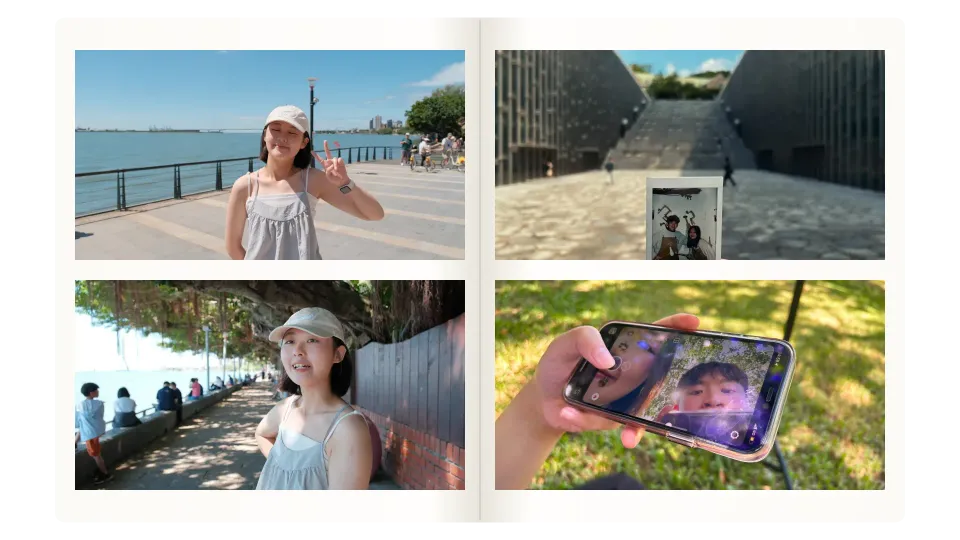
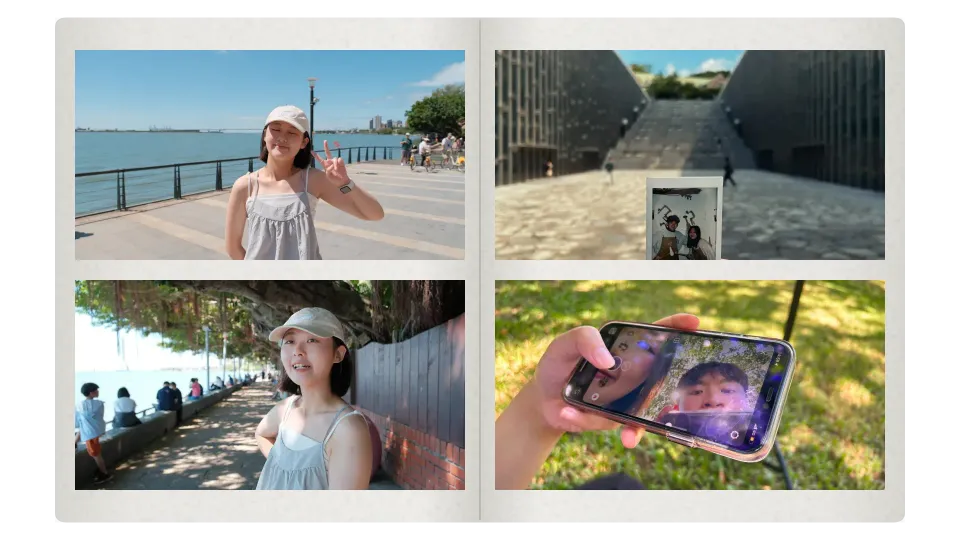
feat: polish UI

diff --git a/scripts/generate-photo-book-assets.ts b/scripts/generate-photo-book-assets.ts
@@ -54,25 +54,49 @@ const paper = Buffer.from(`
 	<svg width="${PHOTO_BOOK_WIDTH}" height="${PHOTO_BOOK_HEIGHT}" viewBox="0 0 ${PHOTO_BOOK_WIDTH} ${PHOTO_BOOK_HEIGHT}" xmlns="http://www.w3.org/2000/svg">
 		<defs>
 			<linearGradient id="left-paper" x1="0" x2="1">
-				<stop offset="0" stop-color="#fbfaf6"/>
-				<stop offset="0.88" stop-color="#fffefb"/>
-				<stop offset="1" stop-color="#e7e3da"/>
+				<stop offset="0" stop-color="#d9d7d1"/>
+				<stop offset="0.18" stop-color="#ebeae5"/>
+				<stop offset="0.86" stop-color="#f1f0ec"/>
+				<stop offset="1" stop-color="#d4d2cc"/>
 			</linearGradient>
 			<linearGradient id="right-paper" x1="0" x2="1">
-				<stop offset="0" stop-color="#e7e3da"/>
-				<stop offset="0.12" stop-color="#fffefb"/>
-				<stop offset="1" stop-color="#fbfaf6"/>
+				<stop offset="0" stop-color="#d4d2cc"/>
+				<stop offset="0.14" stop-color="#f1f0ec"/>
+				<stop offset="0.82" stop-color="#ebeae5"/>
+				<stop offset="1" stop-color="#d9d7d1"/>
 			</linearGradient>
+			<filter id="paper-grain" x="0" y="0" width="100%" height="100%">
+				<feTurbulence type="fractalNoise" baseFrequency="0.09" numOctaves="4" seed="17"/>
+				<feColorMatrix type="saturate" values="0"/>
+				<feComponentTransfer><feFuncA type="linear" slope="0.3"/></feComponentTransfer>
+			</filter>
 		</defs>
 		<path d="M110 55 Q110 35 135 35 H960 V1045 H135 Q110 1045 110 1025 Z" fill="url(#left-paper)"/>
 		<path d="M960 35 H1785 Q1810 35 1810 55 V1025 Q1810 1045 1785 1045 H960 Z" fill="url(#right-paper)"/>
-		<path d="M960 40 V1040" stroke="#c9c3b8" stroke-width="3" opacity="0.72"/>
+		<path d="M110 55 Q110 35 135 35 H960 V1045 H135 Q110 1045 110 1025 Z" filter="url(#paper-grain)" opacity="0.62"/>
+		<path d="M960 35 H1785 Q1810 35 1810 55 V1025 Q1810 1045 1785 1045 H960 Z" filter="url(#paper-grain)" opacity="0.62"/>
+		<path d="M960 40 V1040" stroke="#aaa8a2" stroke-width="4" opacity="0.58"/>
 	</svg>
 `);
 
 const flatPaper = Buffer.from(`
 	<svg width="${PHOTO_BOOK_WIDTH}" height="${PHOTO_BOOK_HEIGHT}" viewBox="0 0 ${PHOTO_BOOK_WIDTH} ${PHOTO_BOOK_HEIGHT}" xmlns="http://www.w3.org/2000/svg">
-		<rect x="110" y="35" width="1700" height="1010" rx="25" fill="#fffefb"/>
+		<defs>
+			<linearGradient id="flat-paper" x1="0" x2="1">
+				<stop offset="0" stop-color="#d9d7d1"/>
+				<stop offset="0.18" stop-color="#ebeae5"/>
+				<stop offset="0.5" stop-color="#f1f0ec"/>
+				<stop offset="0.82" stop-color="#ebeae5"/>
+				<stop offset="1" stop-color="#d9d7d1"/>
+			</linearGradient>
+			<filter id="flat-grain" x="0" y="0" width="100%" height="100%">
+				<feTurbulence type="fractalNoise" baseFrequency="0.09" numOctaves="4" seed="17"/>
+				<feColorMatrix type="saturate" values="0"/>
+				<feComponentTransfer><feFuncA type="linear" slope="0.3"/></feComponentTransfer>
+			</filter>
+		</defs>
+		<rect x="110" y="35" width="1700" height="1010" rx="25" fill="url(#flat-paper)"/>
+		<rect x="110" y="35" width="1700" height="1010" rx="25" filter="url(#flat-grain)" opacity="0.62"/>
 	</svg>
 `);
 
@@ -88,7 +112,8 @@ async function renderSpread(template: PhotoBookTemplate, sources: string[]) {
 					.resize(slots[index].width, slots[index].height, {
 						fit: slots[index].fit ?? 'cover',
 						position: 'centre',
-						background: { r: 255, g: 254, b: 251, alpha: 1 }
+						// Transparent padding lets the generated paper texture show around contained photos.
+						background: { r: 0, g: 0, b: 0, alpha: 0 }
 					})
 					.webp({ quality: 84 })
 					.toBuffer(),
@@ -106,7 +131,10 @@ async function renderSpread(template: PhotoBookTemplate, sources: string[]) {
 			background: { r: 0, g: 0, b: 0, alpha: 0 }
 		}
 	})
-		.composite([{ input: template === 'final-portrait' ? flatPaper : paper, left: 0, top: 0 }, ...photos])
+		.composite([
+			{ input: template === 'final-portrait' ? flatPaper : paper, left: 0, top: 0 },
+			...photos
+		])
 		.webp({ quality: 82, alphaQuality: 90 })
 		.toBuffer();
 }

diff --git a/src/lib/components/PhotoBook.svelte b/src/lib/components/PhotoBook.svelte
@@ -32,7 +32,8 @@
 	// svelte-ignore state_referenced_locally
 	const steps = Math.min(Math.max(introSteps, 0), Math.max(length - 1, 0));
 	const introStartIndex = (((targetIndex - steps) % length) + length) % length;
-	const introTurnDuration = steps > 0 ? Math.max(1, Math.floor(650 / steps)) : 0;
+	const introTurnDuration = steps > 0 ? Math.max(1, Math.floor(1400 / steps)) : 0;
+	const pageLayers = Array.from({ length: 7 }, (_, index) => index + 1);
 
 	let current = $state(introStartIndex);
 	let flip = $state<Flip | null>(null);
@@ -47,6 +48,8 @@
 
 	let activeIndex = $derived(flip?.to ?? current);
 	let activeSpread = $derived(spreads[activeIndex]);
+	let leftPageDepth = $derived(Math.min(activeIndex, 7));
+	let rightPageDepth = $derived(Math.min(Math.max(length - activeIndex - 1, 0), 7));
 
 	$effect(() => {
 		if (!browser) return;
@@ -91,7 +94,7 @@
 		).filter((_, index) => introIndices.includes(index));
 		const decodeIntro = Promise.allSettled(introImages.map((image) => image.decode?.()));
 		const timeout = new Promise<void>((resolve) => {
-			decodeTimeout = setTimeout(resolve, 250);
+			decodeTimeout = setTimeout(resolve, 500);
 		});
 
 		Promise.race([decodeIntro, timeout]).then(() => {
@@ -217,7 +220,26 @@
 			</svg>
 		</button>
 
-		<div class="book">
+		<div
+			class="book"
+			style:--left-page-depth={leftPageDepth}
+			style:--right-page-depth={rightPageDepth}
+		>
+			{#each pageLayers as layer (layer)}
+				<div
+					class="page-layer left"
+					class:depleted={layer > leftPageDepth}
+					style:--layer={layer}
+					aria-hidden="true"
+				></div>
+				<div
+					class="page-layer right"
+					class:depleted={layer > rightPageDepth}
+					style:--layer={layer}
+					aria-hidden="true"
+				></div>
+			{/each}
+
 			{#if mobile}
 				<div class="full stack">
 					{#each spreads as spread, index (spread.id)}
@@ -360,9 +382,43 @@
 		content: '';
 	}
 
+	.page-layer {
+		position: absolute;
+		z-index: calc(8 - var(--layer));
+		top: 3.7%;
+		bottom: 3.2%;
+		width: 44.3%;
+		border: 1px solid rgb(173 170 162 / 0.58);
+		background: linear-gradient(105deg, #f1f0ec, #deddd7);
+		box-shadow: 0 1px 2px rgb(45 43 38 / 0.12);
+		transition:
+			opacity 220ms ease,
+			visibility 220ms ease;
+	}
+
+	.page-layer.depleted {
+		opacity: 0;
+		visibility: hidden;
+	}
+
+	.page-layer.left {
+		left: 5.8%;
+		border-radius: 18px 2px 4px 18px;
+		transform: translate(calc(var(--layer) * -0.8px), calc(var(--layer) * 0.7px))
+			rotate(calc(var(--layer) * -0.035deg));
+	}
+
+	.page-layer.right {
+		right: 5.8%;
+		border-radius: 2px 18px 18px 4px;
+		transform: translate(calc(var(--layer) * 0.8px), calc(var(--layer) * 0.7px))
+			rotate(calc(var(--layer) * 0.035deg));
+	}
+
 	.full,
 	.stacked-spread {
 		position: absolute;
+		z-index: 10;
 		inset: 0;
 	}
 
@@ -376,6 +432,7 @@
 
 	.half {
 		position: absolute;
+		z-index: 10;
 		top: 0;
 		bottom: 0;
 		width: 50%;
@@ -404,7 +461,7 @@
 		position: absolute;
 		top: 0;
 		bottom: 0;
-		z-index: 5;
+		z-index: 20;
 		width: 50%;
 		transform-style: preserve-3d;
 		animation: 850ms cubic-bezier(0.42, 0.05, 0.25, 1) forwards;

diff --git a/src/lib/components/PhotoBook.test.ts b/src/lib/components/PhotoBook.test.ts
@@ -52,6 +52,25 @@ describe('PhotoBook', () => {
 		expect(screen.getByText('Photography collage, spread 2 of 4')).toBeTruthy();
 	});
 
+	it('moves the visible page-stack depth as the book advances', async () => {
+		const { container } = render(PhotoBook, {
+			props: { spreads, introSteps: 0, introTargetIndex: 0 }
+		});
+		const book = container.querySelector<HTMLElement>('.book');
+
+		expect(book?.style.getPropertyValue('--left-page-depth')).toBe('0');
+		expect(book?.style.getPropertyValue('--right-page-depth')).toBe('3');
+		expect(container.querySelectorAll('.page-layer.left:not(.depleted)')).toHaveLength(0);
+		expect(container.querySelectorAll('.page-layer.right:not(.depleted)')).toHaveLength(3);
+
+		await fireEvent.click(screen.getAllByRole('button', { name: 'Next spread' })[0]);
+
+		expect(book?.style.getPropertyValue('--left-page-depth')).toBe('1');
+		expect(book?.style.getPropertyValue('--right-page-depth')).toBe('2');
+		expect(container.querySelectorAll('.page-layer.left:not(.depleted)')).toHaveLength(1);
+		expect(container.querySelectorAll('.page-layer.right:not(.depleted)')).toHaveLength(2);
+	});
+
 	it('ignores global arrow keys while keyboard navigation is disabled', async () => {
 		render(PhotoBook, {
 			props: { spreads, introSteps: 0, introTargetIndex: 0, keyboardEnabled: false }
@@ -62,7 +81,7 @@ describe('PhotoBook', () => {
 		expect(document.querySelector('.flap')).toBeNull();
 	});
 
-	it('shares a maximum 650ms animation budget across every intro turn', () => {
+	it('shares a maximum 1.4 second animation budget across every intro turn', () => {
 		const { container } = render(PhotoBook, {
 			props: { spreads, introSteps: spreads.length - 1, introTargetIndex: spreads.length - 1 }
 		});
@@ -72,7 +91,7 @@ describe('PhotoBook', () => {
 			10
 		);
 
-		expect(turnDuration * (spreads.length - 1)).toBeLessThanOrEqual(650);
+		expect(turnDuration * (spreads.length - 1)).toBeLessThanOrEqual(1400);
 	});
 
 	it('skips the intro and lands on its target when reduced motion is preferred', async () => {
